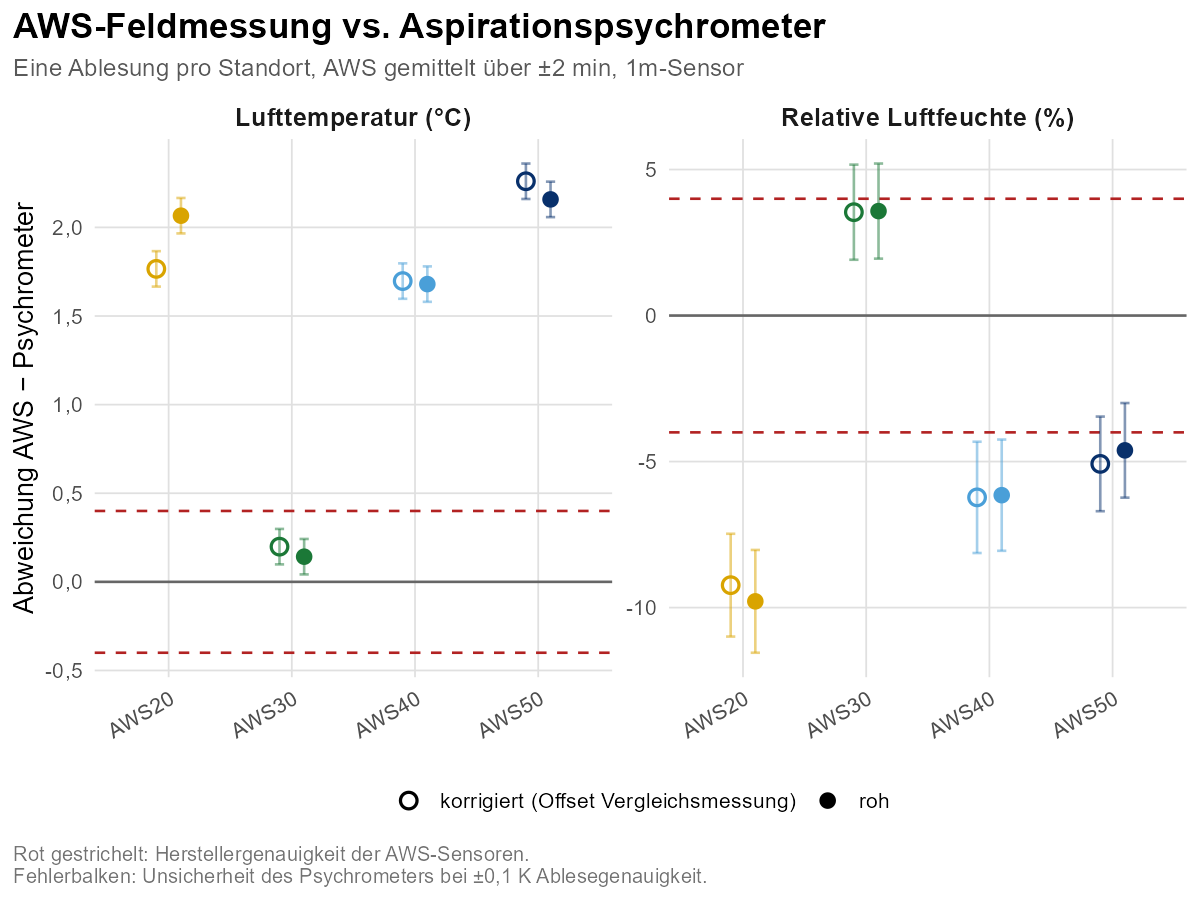
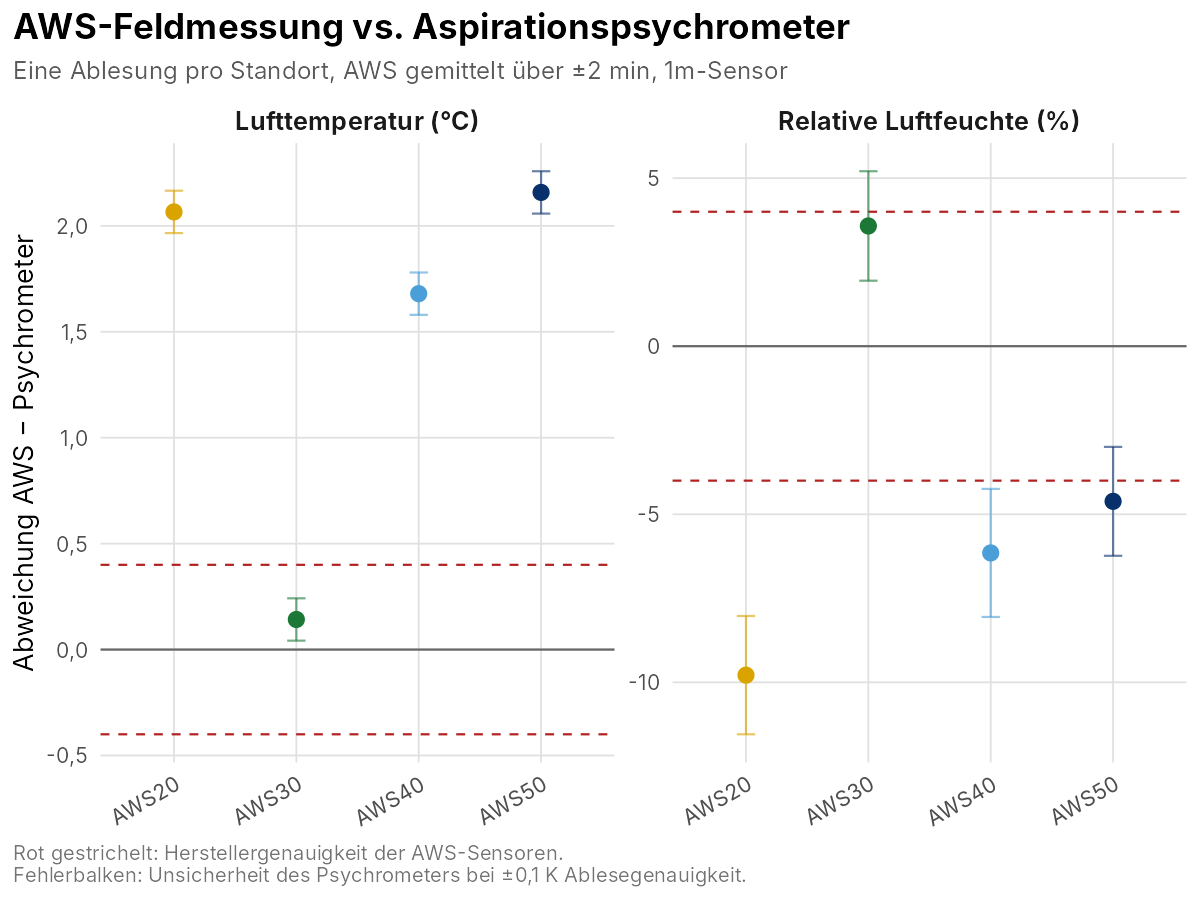
Psychrometer: compare raw AWS values only, drop offset correction
Claude-Session: https://claude.ai/code/session_01CHA6d5ZqfTq16DpTctUbvK

diff --git a/README.md b/README.md
@@ -130,7 +130,7 @@ Was das Skript macht:
    e = E(T_f) − A·p·(T − T_f), A = 6,53·10⁻⁴·(1 + 0,000944·T_f) K⁻¹, RH = e / E(T) · 100.
    Dazu die Unsicherheit der Feuchte bei ±0,1 K Ablesegenauigkeit (~±1,5–2 %).
 2. AWS-Werte vom **unteren Sensor (1m)**, auf dessen Höhe das Psychrometer gemessen wurde, als Mittel über ±2 min um die Ablesung.
-3. Vergleich **roh und korrigiert** mit den Offsets aus der Vergleichsmessung. Liegen die korrigierten Werte näher am Psychrometer, spricht das für die Korrektur.
+3. Differenz AWS − Psychrometer mit den Rohwerten (ohne Offset-Korrektur).
 
 Mit nur einer Ablesung pro Standort ist das eine Stichprobe, keine Kalibrierung.
 
